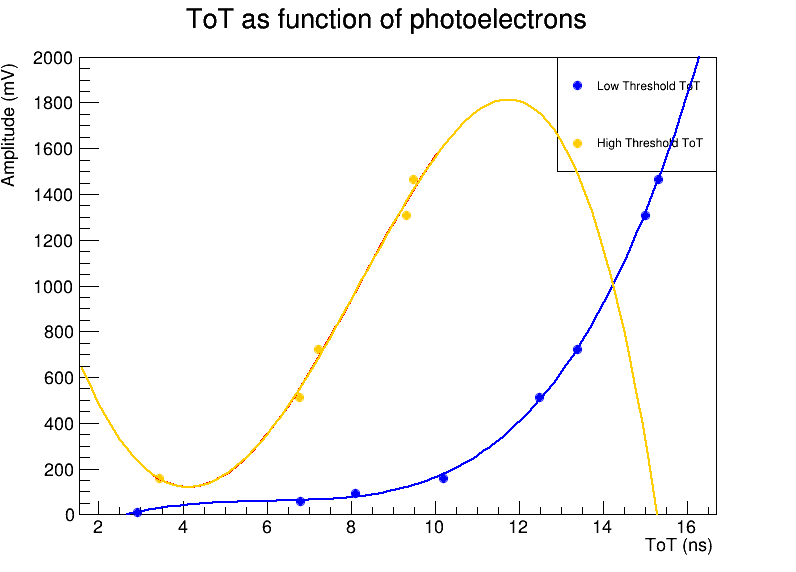
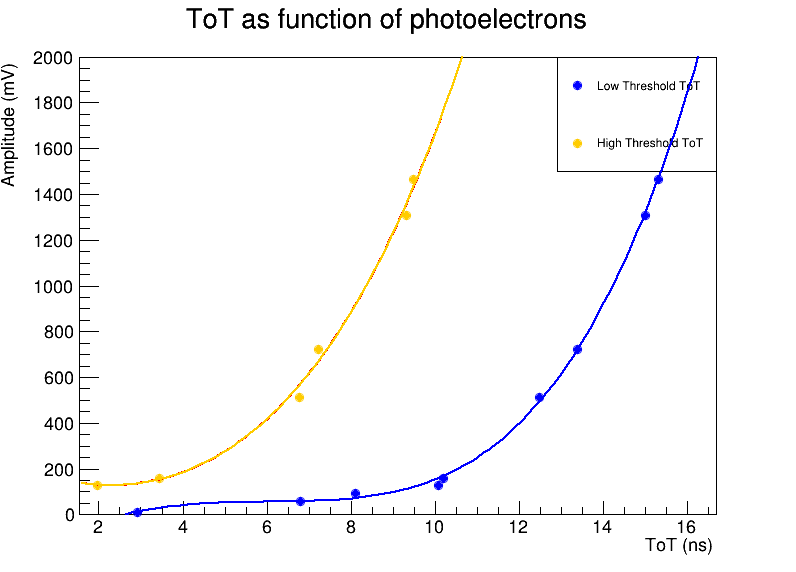
new commit

diff --git a/time_distribution_graph.C b/time_distribution_graph.C
@@ -222,7 +222,7 @@ int main() {
         "T_smear_5275_2800.txt",
         "T_smear_67_150.txt", "T_smear_86_22.txt",
         "T_smear_4000.txt","T_smear_119.txt","T_smear_723.txt","T_smear_29824.txt","T_smear_528.txt","T_smear_648.txt","T_smear_26539.txt"
-	"T_smear_150.txt" ,"T_smear_800.txt"  };
+	"T_smear_135",	"T_smear_150.txt" ,"T_smear_800.txt"  };
 
     std::vector<double> N;
     std::vector<double> tot_l;
@@ -312,7 +312,7 @@ int main() {
     fit_high->Draw("same");
 
     // Salva il grafico in un file
-    c1->SaveAs("N_vs_ToT_fit3.png");
+    c1->SaveAs("N_vs_ToT_fit4.png");
 
     // Pulizia della memoria
     delete gr_low;
